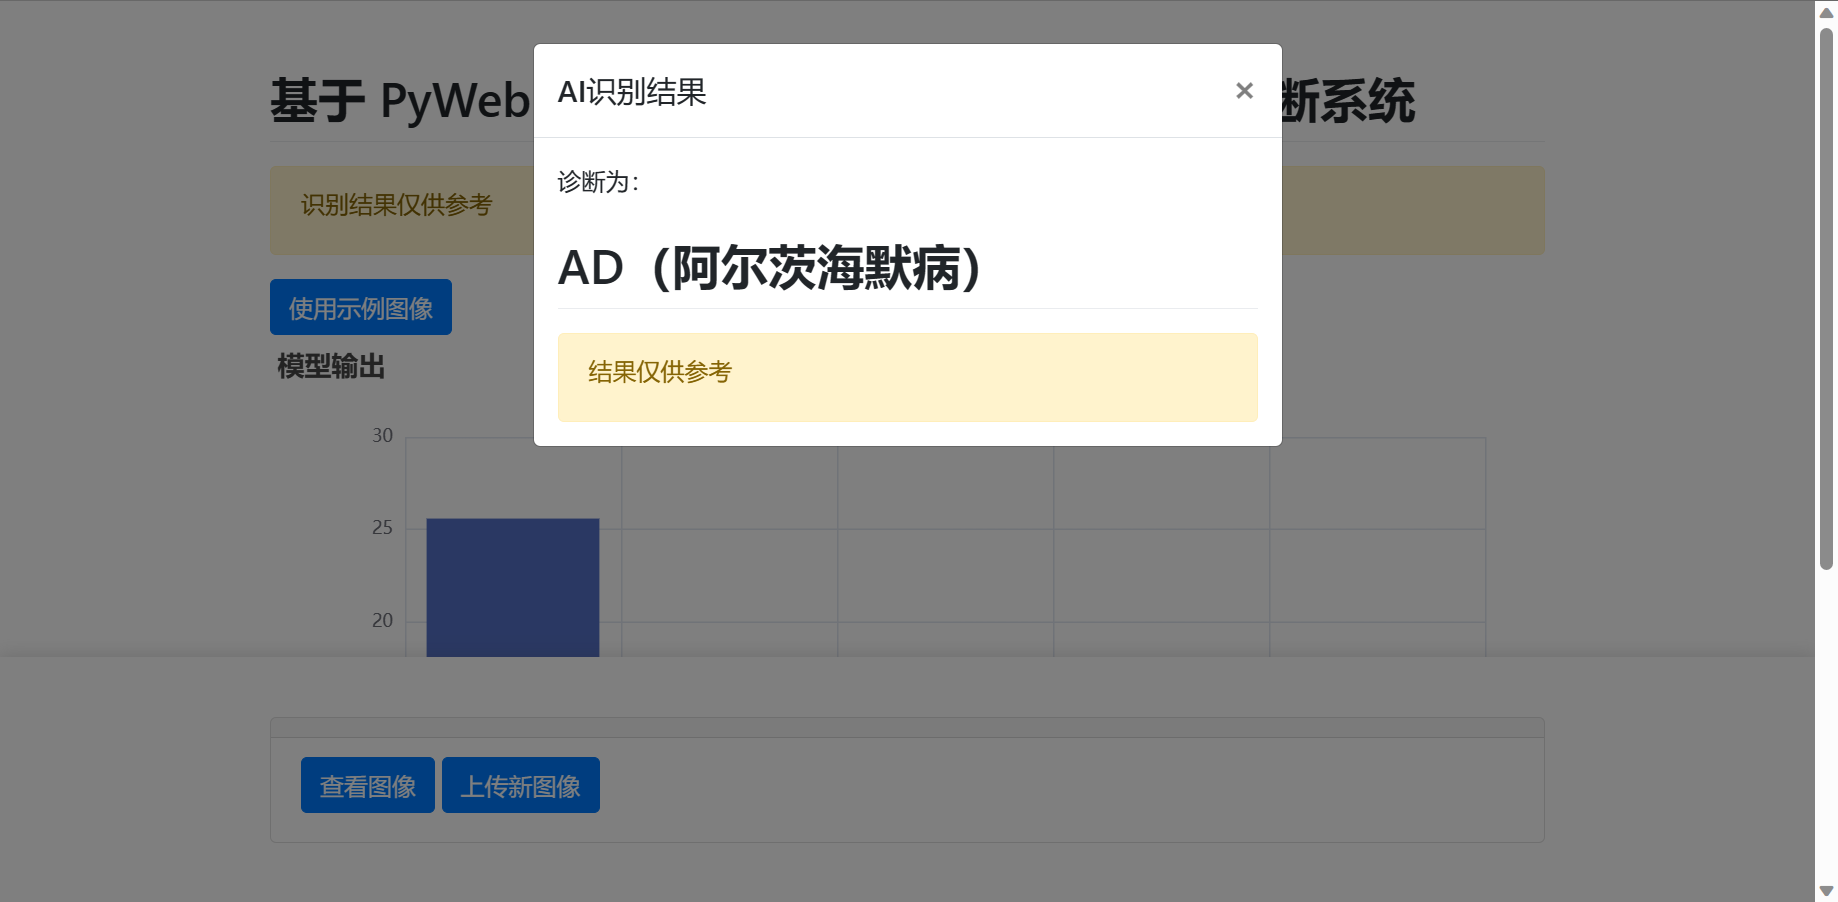
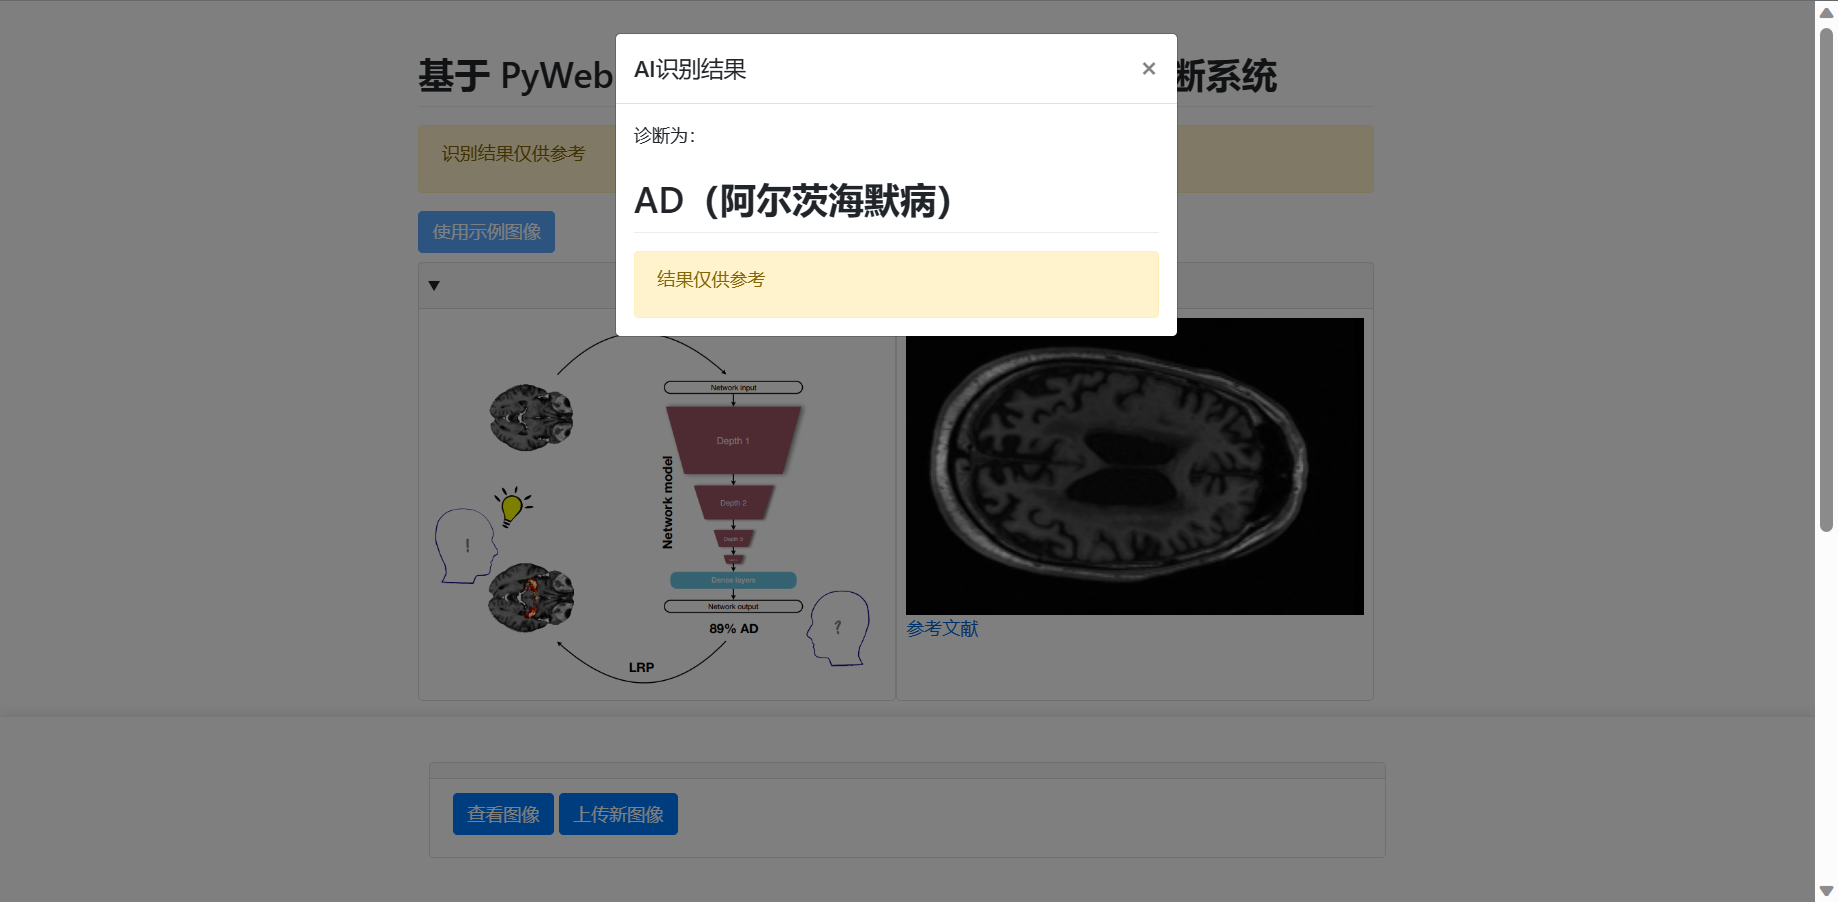
添加首页图片

Changed region(s): [[0.124, 0.031, 0.8683, 0.745], [0.1551, 0.8381, 0.3721, 0.9313], [0.9924, 0.5898, 1.0, 0.6519]]

diff --git a/zlzheimer-diagnostic-system.py b/zlzheimer-diagnostic-system.py
@@ -55,9 +55,18 @@ def zlzheimer_diagnostic_system(is_demo=False):
             pywebio.output.put_link(name="项目github仓库", url="https://github.com/bytesc/Image-Recognition-system"),
             pywebio.output.put_link(name="演示数据集", url="https://github.com/bytesc/lqdata"),
         ])
+        train_img = PIL.Image.open("./img/net_graph.png")
+        brain_img = PIL.Image.open("./img/brain_demo1.png")
+        pywebio.output.put_row(
+            [pywebio.output.put_collapse("", [pywebio.output.put_image(train_img)], open=True),
+             pywebio.output.put_collapse("", [pywebio.output.put_image(brain_img),
+                                              pywebio.output.put_link(name=" 参考文献", url="https://github.com/moboehle/Pytorch-LRP"),], open=True),
+             ]
+        )
               # input_img = pywebio.input.file_upload(label="上传图片", accept=[".jpg", ".png", ".jpeg"])
         nii_path = "./demodata/demo.nii"
         if not is_demo:
+            act = pywebio.input.actions(' ', ['上传图像'], )
             input_img = pywebio.input.file_upload(label="上传图像", accept=[".nii"], required=True)
             pywebio.output.popup("加载中", [
                 pywebio.output.put_loading(),

diff --git a/README.md b/README.md
@@ -20,6 +20,8 @@
   ![image](./readme_img/2.png)
 - 模型输出图表
   ![image](./readme_img/3.png)
+- 查看上传的图像
+  ![image](./readme_img/3.1.png)
 
 ## 如何使用
 
